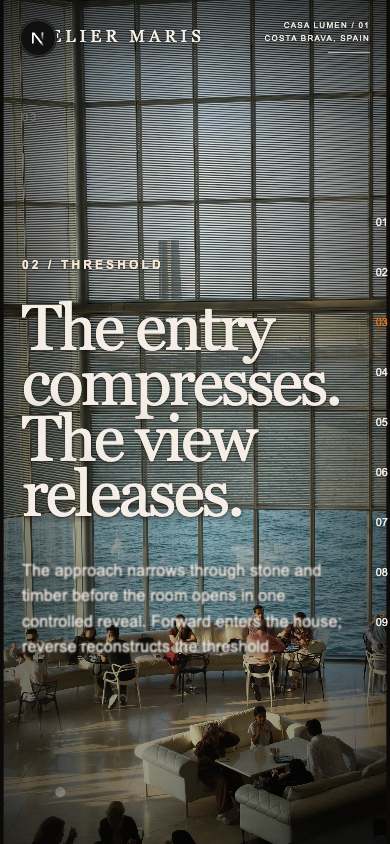
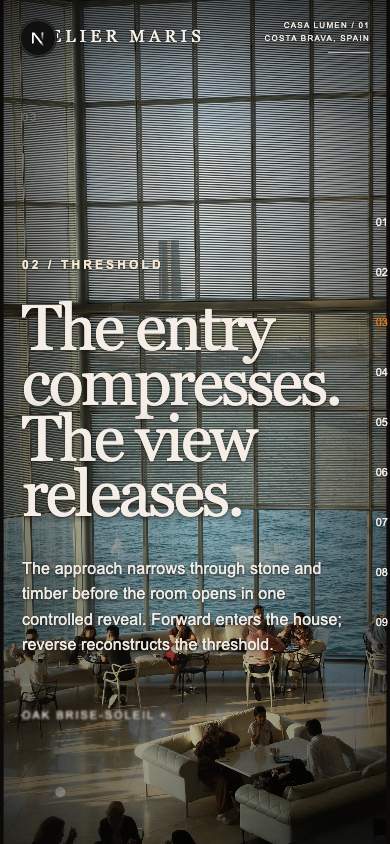
Add a hard cut transition and author chapter 02 as a discrete slide
Prototype for review: one section built as a slide rather than a link in a
continuous sequence.

`cut` joins the media transition set. It ignores the overlap window entirely -- the
frame is simply there from its own boundary, with no blend, no parallax drift and no
zoom settle. A panel is also replaced by a hard cut rather than slid out from under
one, so the outgoing panel holds still instead of drifting and exposing the plate
behind it in the beat before the swap.

Chapter 02 Threshold cuts in, holds dead still with zoom pinned at 1, and its copy
arrives as one block on a short lead and stays for 94% of the chapter. Chapter 03
also enters on a cut so 02 has a hard out-point and reads as one complete slide.
Chapters 01 and 04 through 09 keep their soft mask, slide, wipe and zoom handovers.

Verified structurally by scanning 161 scroll positions and recording which panels are
co-visible: panels 1+2 and 2+3 never co-exist, so both of chapter 02's boundaries are
genuine cuts, and it holds alone across 18 consecutive samples from 0.231 to 0.338.
Every other boundary still overlaps for 6 to 7 samples, so the soft handovers are
untouched. Also walked eight frames across the cut at 1440x1000 with no plate visible
and no console or page errors. Screenshots in screenshots/atelier-maris (c2-*.png).
All audits, typecheck and build pass. Tests 200/203 and lint 21 problems, both
unchanged pre-existing failures.
[…]

Changed region(s): [[0.0615, 0.6469, 0.8615, 0.8009], [0.0615, 0.8318, 0.4, 0.8626]]

diff --git a/src/lib/mediaPanels.ts b/src/lib/mediaPanels.ts
@@ -1,7 +1,7 @@
 import type { SceneDefinition } from "@/src/types/experience";
 
-export type MediaTransition = "slide" | "curtain" | "zoom" | "dissolve" | "wipe" | "mask";
-export interface PanelWindow { start: number; end: number; enterStart: number; exitStart: number; first: boolean; last: boolean; direction: "up" | "down"; exitDirection?: "up" | "down"; zoom: number; transition?: MediaTransition }
+export type MediaTransition = "slide" | "curtain" | "zoom" | "dissolve" | "wipe" | "mask" | "cut";
+export interface PanelWindow { start: number; end: number; enterStart: number; exitStart: number; first: boolean; last: boolean; direction: "up" | "down"; exitDirection?: "up" | "down"; zoom: number; transition?: MediaTransition; exitCut?: boolean }
 const clamp = (n: number) => Math.max(0, Math.min(1, n));
 export function getMediaPanelWindow(scenes: readonly SceneDefinition[], index: number): PanelWindow {
   const scene = scenes[index], prior = scenes[index - 1], next = scenes[index + 1];
@@ -16,10 +16,17 @@ export function getMediaPanelWindow(scenes: readonly SceneDefinition[], index: n
     exitDirection: next?.media?.direction ?? "up",
     zoom: scene.media?.zoom ?? 1.06,
     transition: scene.media?.transition ?? "slide",
+    // A panel is replaced by a hard cut, not slid out from under one: drifting would expose
+    // the plate behind it in the beat before the swap.
+    exitCut: next?.media?.transition === "cut",
   };
 }
 export function sampleMediaPanel(p: number, w: PanelWindow, compact = false) {
-  const enter = w.first ? 1 : clamp((p - w.enterStart) / Math.max(.000001,w.start-w.enterStart));
+  // A cut ignores the overlap window entirely: the frame is simply there from its own boundary,
+  // with no blend, no drift and no reveal. Authored slides use it to change hard.
+  const isCut = w.transition === "cut";
+  const enter = w.first || (isCut && p >= w.start) ? 1 : isCut ? 0
+    : clamp((p - w.enterStart) / Math.max(.000001,w.start-w.enterStart));
   const leave = w.last ? 0 : clamp((p-w.exitStart)/Math.max(.000001,w.end-w.exitStart));
   const sign = w.direction === "up" ? 1 : -1;
   const exitSign = (w.exitDirection ?? w.direction) === "up" ? 1 : -1;
@@ -27,12 +34,13 @@ export function sampleMediaPanel(p: number, w: PanelWindow, compact = false) {
   const transition = w.transition ?? "slide";
   const phase = clamp(enter * (1 - leave));
   return {
-    visible: p >= w.enterStart && (w.last ? p <= w.end : p < w.end),
-    panelY: transition === "slide" ? sign * (1-enter)*100-exitSign*leave*35 : 0,
-    imageY: -sign*(1-enter)*travel + exitSign*leave*travel,
-    scale: transition === "zoom"
-      ? 1 + (Math.min(w.zoom, compact ? 1.06 : 1.18) - 1) * (1 - phase)
-      : 1 + (Math.min(w.zoom,compact?1.04:1.18)-1)*(1-clamp((p-w.enterStart)/Math.max(.000001,w.end-w.enterStart))),
+    visible: p >= (isCut ? w.start : w.enterStart) && (w.last ? p <= w.end : p < w.end),
+    panelY: transition === "slide" ? sign * (1-enter)*100 - (w.exitCut ? 0 : exitSign*leave*35) : 0,
+    imageY: isCut ? 0 : -sign*(1-enter)*travel + exitSign*leave*travel,
+    scale: isCut ? 1
+      : transition === "zoom"
+        ? 1 + (Math.min(w.zoom, compact ? 1.06 : 1.18) - 1) * (1 - phase)
+        : 1 + (Math.min(w.zoom,compact?1.04:1.18)-1)*(1-clamp((p-w.enterStart)/Math.max(.000001,w.end-w.enterStart))),
     opacity: transition === "dissolve" || transition === "zoom" ? phase : 1,
     blur: transition === "dissolve" ? (1 - phase) * (compact ? 3 : 5.5) : 0,
     clip: transition === "curtain" || transition === "wipe" ? (1 - enter) * 100 : 0,

diff --git a/src/components/dom/NarrativeOverlay.tsx b/src/components/dom/NarrativeOverlay.tsx
@@ -9,9 +9,9 @@ import { SceneBlocks } from "./SceneBlocks";
  * each carry a different treatment, and `pace` sets how quickly that chapter's copy lands.
  * Chapters not listed here fall back to the last entry's shape.
  */
-const CHAPTER_MOTION: Record<string, { label: CinematicPreset; headline: CinematicPreset; lede: CinematicPreset; pace: number }> = {
+const CHAPTER_MOTION: Record<string, { label: CinematicPreset; headline: CinematicPreset; lede: CinematicPreset; pace: number; lead?: number }> = {
   parti: { label: "label-track", headline: "headline-words", lede: "lede-words", pace: 1 },
-  threshold: { label: "text-settle", headline: "headline-reveal", lede: "copy-drift", pace: .78 },
+  threshold: { label: "text-settle", headline: "headline-reveal", lede: "copy-drift", pace: .6, lead: .03 },
   living: { label: "label-track", headline: "headline-slide", lede: "lede-scatter", pace: 1.18 },
   material: { label: "text-settle", headline: "headline-chars", lede: "lede-words", pace: 1.3 },
   wellness: { label: "label-track", headline: "headline-swing", lede: "copy-drift", pace: .9 },
@@ -34,7 +34,7 @@ const cues: CinematicCue[] = experience.scenes.flatMap((scene, index) => {
   const scope = '[data-motion-scene="' + index + '"] ';
   // The photograph holds alone for the first stretch of every chapter. Copy motion begins after
   // that beat and runs long, so each effect is crossed by scrolling rather than triggered.
-  const lead = .14;
+  const lead = motion.lead ?? .14;
   return [
     { selector: scope + "[data-motion-index]", range: [at(lead), at(lead + textEnd * .5)], preset: motion.label },
     { selector: scope + "[data-motion-copy]", range: [at(lead + textEnd * .12), at(lead + textEnd * .8)], preset: motion.label },

diff --git a/src/lib/configSchema.ts b/src/lib/configSchema.ts
@@ -255,7 +255,7 @@ export const sceneMediaSchema = z.object({
   src: assetUrl,
   poster: assetUrl.optional(),
   alt: z.string().min(1).max(300),
-  transition: z.enum(["slide", "curtain", "zoom", "dissolve", "wipe", "mask"]).default("slide"),
+  transition: z.enum(["slide", "curtain", "zoom", "dissolve", "wipe", "mask", "cut"]).default("slide"),
   blendColor: color.optional(),
   maskSoftness: finite.min(0).max(100).default(18),
   mask: maskRevealSchema.optional(),
